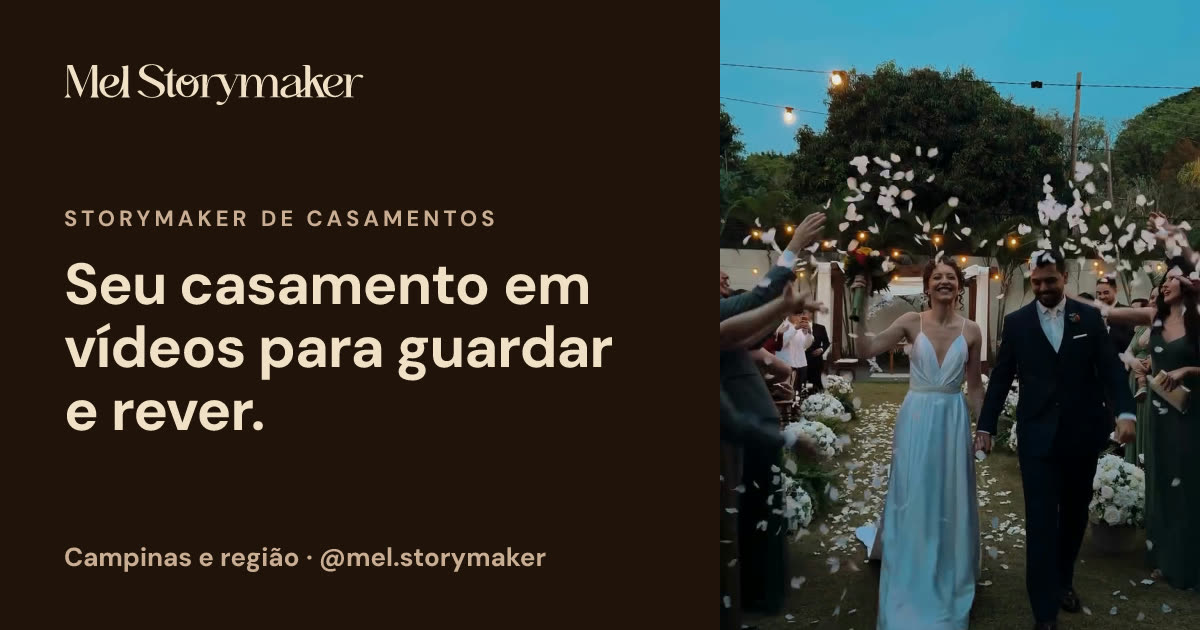
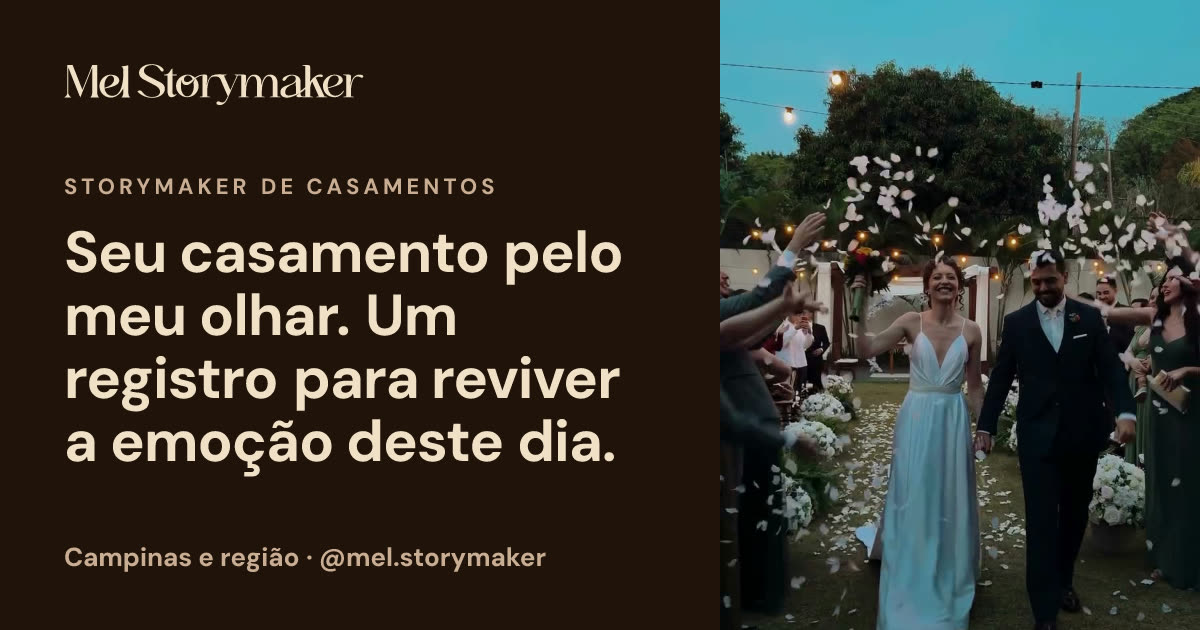
copy: new LP headline (H1 + share image)

Changed region(s): [[0.0308, 0.2714, 0.5242, 0.754]]

diff --git a/app/casamento/conteudo.ts b/app/casamento/conteudo.ts
@@ -15,7 +15,7 @@ import type { Escopo } from "@/lib/contrato/tipos";
  * (`scripts/lp-og.tsx`) desenha a mesma frase: escrito em dois lugares, o
  * link no WhatsApp prometeria uma coisa e a página abriria com outra.
  */
-export const TITULO_LP = "Seu casamento em vídeos para guardar e rever.";
+export const TITULO_LP = "Seu casamento pelo meu olhar. Um registro para reviver a emoção deste dia.";
 
 /**
  * "Mais de 100 celebrações registradas", afirmado pelo owner em 03/10/2026
